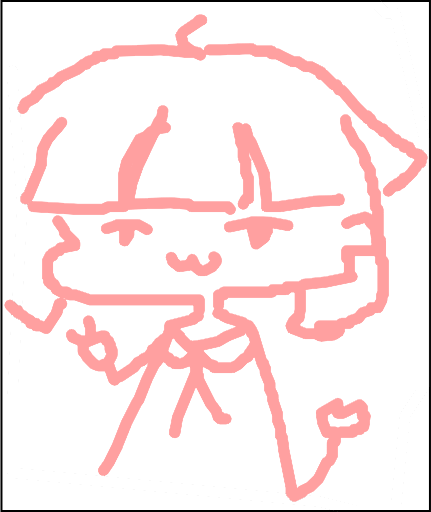
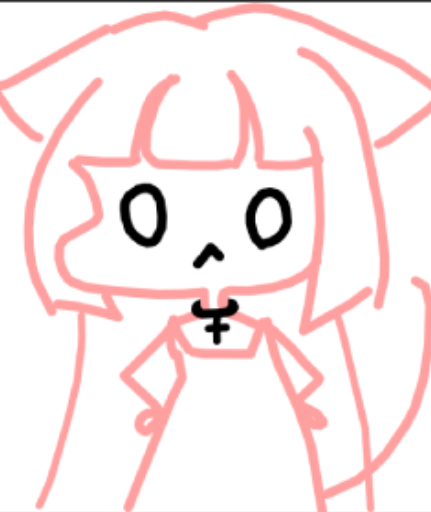
update ayo profile

diff --git a/mai-tools/index.html b/mai-tools/index.html
@@ -6,7 +6,7 @@
   <meta name="viewport" content="width=915">
   <link rel="icon" href="img/favicon.ico">
   <title>maimai小工具</title>
-  <link id="theme" rel="stylesheet" href="css/corkboard.css" />
+  <link id="theme" rel="stylesheet" href="css/main.css" />
   <link href="https://cdn.jsdelivr.net/npm/bootstrap@5.3.6/dist/css/bootstrap.min.css" rel="stylesheet"
     integrity="sha384-4Q6Gf2aSP4eDXB8Miphtr37CMZZQ5oXLH2yaXMJ2w8e2ZtHTl7GptT4jmndRuHDT" crossorigin="anonymous">
   <script src="https://cdn.jsdelivr.net/npm/bootstrap@5.3.6/dist/js/bootstrap.bundle.min.js"
